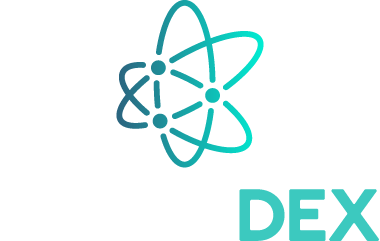
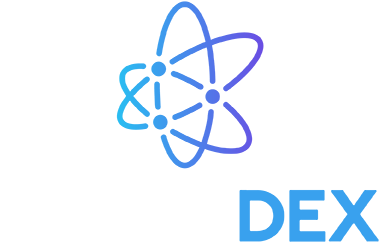
Change colors to blue

Changed region(s): [[0.2895, 0.0, 0.6947, 0.6971], [0.6079, 0.7552, 1.0, 1.0]]

diff --git a/lib/screens/settings/setting_page.dart b/lib/screens/settings/setting_page.dart
@@ -501,7 +501,7 @@ class _SettingPageState extends State<SettingPage> {
       child: ListTile(
         leading: Padding(
           padding: const EdgeInsets.all(6.0),
-          child: SvgPicture.asset('assets/delete_setting.svg'),
+          child: SvgPicture.asset('assets/svg/delete_setting.svg'),
         ),
         title: Text(AppLocalizations.of(context).deleteWallet,
             style: Theme.of(context).textTheme.body1.copyWith(
@@ -532,7 +532,7 @@ class _SettingPageState extends State<SettingPage> {
                           backgroundColor: Colors.white,
                           title: Column(
                             children: <Widget>[
-                              SvgPicture.asset('assets/delete_wallet.svg'),
+                              SvgPicture.asset('assets/svg/delete_wallet.svg'),
                               const SizedBox(
                                 height: 16,
                               ),
@@ -702,7 +702,7 @@ class _SettingPageState extends State<SettingPage> {
       }
       log.sink.write('\n\n--- / my recent swaps ---\n\n');
       // TBD: Replace these with a pretty-printed metrics JSON
-      log.sink.write('AtomicDEX mobile ${packageInfo.version} $os\n');
+      log.sink.write('atomicDEX mobile ${packageInfo.version} $os\n');
       log.sink.write('mm_version ${mmSe.mmVersion} mm_date ${mmSe.mmDate}\n');
       log.sink.write('netid ${mmSe.netid} pubkey ${mmSe.pubkey}\n');
       await log.sink.flush();
@@ -737,7 +737,7 @@ class _SettingPageState extends State<SettingPage> {
     mainBloc.isUrlLaucherIsOpen = true;
     await Share.shareFile(af,
         mimeType: 'application/octet-stream',
-        subject: 'AtomicDEX logs at ${DateTime.now().toIso8601String()}');
+        subject: 'atomicDEX logs at ${DateTime.now().toIso8601String()}');
   }
 
   Future<void> _shareFileDialog() async {

diff --git a/lib/screens/dex/trade/trade_page.dart b/lib/screens/dex/trade/trade_page.dart
@@ -881,7 +881,7 @@ class _TradePageState extends State<TradePage> with TickerProviderStateMixin {
                         color: Theme.of(context).backgroundColor,
                       ),
                       child: SvgPicture.asset(
-                        'assets/icon_swap.svg',
+                        'assets/svg/icon_swap.svg',
                         height: 40,
                       )),
                 )
@@ -1275,16 +1275,16 @@ class _TradePageState extends State<TradePage> with TickerProviderStateMixin {
                   crossAxisAlignment: CrossAxisAlignment.end,
                   children: <Widget>[
                     StreamBuilder<bool>(
-                      initialData: settingsBloc.showBalance,
-                      stream: settingsBloc.outShowBalance,
-                      builder: (BuildContext context, AsyncSnapshot<bool> snapshot) {
-                        String amount = coin.balance.getBalance();
-                        if(snapshot.hasData && snapshot.data == false) {
-                          amount = '**.**';
-                        }
-                        return Text(amount);
-                      }
-                    ),
+                        initialData: settingsBloc.showBalance,
+                        stream: settingsBloc.outShowBalance,
+                        builder: (BuildContext context,
+                            AsyncSnapshot<bool> snapshot) {
+                          String amount = coin.balance.getBalance();
+                          if (snapshot.hasData && snapshot.data == false) {
+                            amount = '**.**';
+                          }
+                          return Text(amount);
+                        }),
                     const SizedBox(
                       width: 4,
                     ),

diff --git a/lib/drawer/drawer.dart b/lib/drawer/drawer.dart
@@ -46,8 +46,8 @@ class _AppDrawerState extends State<AppDrawer> {
                     begin: Alignment.centerRight,
                     stops: <double>[0.01, 1],
                     colors: <Color>[
-                      Color.fromRGBO(39, 71, 110, 0.6),
-                      Color.fromRGBO(65, 234, 213, 0.1),
+                      Color.fromRGBO(98, 90, 229, 0.4),
+                      Color.fromRGBO(45, 184, 240, 0.6),
                     ],
                   )),
                   child: SafeArea(
@@ -61,7 +61,7 @@ class _AppDrawerState extends State<AppDrawer> {
                           child: Padding(
                             padding: const EdgeInsets.only(bottom: 8),
                             child: Image.asset(
-                                'assets/mark_and_text_vertical_light.png'),
+                                'assets/mark_and_text_vertical_white.png'),
                           ),
                         ),
                         Flexible(
@@ -83,7 +83,7 @@ class _AppDrawerState extends State<AppDrawer> {
                               mainAxisAlignment: MainAxisAlignment.center,
                               children: <Widget>[
                                 SvgPicture.asset(
-                                  'assets/wallet.svg',
+                                  'assets/svg/wallet.svg',
                                   height: 18,
                                 ),
                                 const SizedBox(width: 4),

diff --git a/lib/screens/authentification/authenticate_page.dart b/lib/screens/authentification/authenticate_page.dart
@@ -293,7 +293,7 @@ class _CreateWalletButtonState extends State<CreateWalletButton> {
     return BoxButton(
       key: const Key('createWalletButton'),
       text: AppLocalizations.of(context).createAWallet,
-      assetPath: 'assets/create_wallet.svg',
+      assetPath: 'assets/svg/create_wallet.svg',
       onPressed: () {
         Navigator.push<dynamic>(
           context,
@@ -316,7 +316,7 @@ class _RestoreButtonState extends State<RestoreButton> {
     return BoxButton(
       key: const Key('restoreWallet'),
       text: AppLocalizations.of(context).restoreWallet,
-      assetPath: 'assets/lock_off.svg',
+      assetPath: 'assets/svg/lock_off.svg',
       onPressed: () {
         Navigator.push<dynamic>(
           context,

diff --git a/lib/screens/portfolio/coins_page.dart b/lib/screens/portfolio/coins_page.dart
@@ -164,9 +164,9 @@ class _CoinsPageState extends State<CoinsPage> {
                               begin: Alignment.bottomLeft,
                               end: Alignment.topRight,
                               stops: const <double>[0.01, 1],
-                              colors: <Color>[
-                                const Color.fromRGBO(39, 71, 110, 1),
-                                Theme.of(context).accentColor,
+                              colors: const <Color>[
+                                Color.fromRGBO(98, 90, 229, 1),
+                                Color.fromRGBO(45, 184, 240, 1),
                               ],
                             )),
                           ));

diff --git a/lib/widgets/theme_data.dart b/lib/widgets/theme_data.dart
@@ -16,7 +16,7 @@ ThemeData getTheme() => ThemeData(
       primaryColor: primaryColor,
       backgroundColor: const Color.fromRGBO(30, 42, 58, 1),
       primaryColorDark: const Color.fromRGBO(28, 36, 48, 1),
-      accentColor: const Color.fromRGBO(65, 234, 213, 1),
+      accentColor: const Color.fromRGBO(57, 161, 238, 1),
       textSelectionColor:
           const Color.fromRGBO(57, 161, 238, 1).withOpacity(0.3),
       toggleableActiveColor: const Color.fromRGBO(57, 161, 238, 1),

diff --git a/lib/screens/dex/trade/swap_confirmation_page.dart b/lib/screens/dex/trade/swap_confirmation_page.dart
@@ -213,7 +213,7 @@ class _SwapConfirmationState extends State<SwapConfirmation> {
                         padding: const EdgeInsets.symmetric(
                             vertical: 4, horizontal: 4),
                         color: Theme.of(context).backgroundColor,
-                        child: SvgPicture.asset('assets/icon_swap.svg')),
+                        child: SvgPicture.asset('assets/svg/icon_swap.svg')),
                   ))
             ],
           ),

diff --git a/lib/screens/authentification/unlock_wallet_page.dart b/lib/screens/authentification/unlock_wallet_page.dart
@@ -70,7 +70,7 @@ class _UnlockWalletPageState extends State<UnlockWalletPage> {
                   color: Theme.of(context).primaryColor,
                   child: Padding(
                     padding: const EdgeInsets.all(24.0),
-                    child: SvgPicture.asset('assets/lock.svg',
+                    child: SvgPicture.asset('assets/svg/lock.svg',
                         semanticsLabel: 'Lock'),
                   ),
                 ),

diff --git a/lib/screens/settings/view_seed_unlock_page.dart b/lib/screens/settings/view_seed_unlock_page.dart
@@ -48,7 +48,7 @@ class _ViewSeedUnlockPageState extends State<ViewSeedUnlockPage> {
                 )
               : UnlockPassword(
                   currentWallet: walletBloc.currentWallet,
-                  icon: SvgPicture.asset('assets/seed_logo.svg'),
+                  icon: SvgPicture.asset('assets/svg/seed_logo.svg'),
                   onSuccess: (String data) {
                     setState(() {
                       seed = data;

diff --git a/lib/screens/dex/history/swap_detail_page/final_trade_success.dart b/lib/screens/dex/history/swap_detail_page/final_trade_success.dart
@@ -43,7 +43,7 @@ class _FinalTradeSuccessState extends State<FinalTradeSuccess>
             ),
             Container(
               height: 200,
-              child: SvgPicture.asset('assets/trade_success.svg',
+              child: SvgPicture.asset('assets/svg/trade_success.svg',
                   semanticsLabel: 'Trade Success'),
             ),
             const SizedBox(

diff --git a/lib/services/get_erc_transactions.dart b/lib/services/get_erc_transactions.dart
@@ -5,7 +5,6 @@ import 'package:komodo_dex/model/error_code.dart';
 import 'package:http/http.dart';
 import 'package:http/http.dart' as http;
 import 'package:komodo_dex/model/transactions.dart';
-import 'package:komodo_dex/model/transaction_data.dart';
 import 'package:komodo_dex/utils/log.dart';
 
 // At the moment (8/24/2020) tx history is disabled on parity nodes,

diff --git a/lib/screens/authentification/welcome_page.dart b/lib/screens/authentification/welcome_page.dart
@@ -34,7 +34,7 @@ class _WelcomePageState extends State<WelcomePage> {
           const SizedBox(
             height: 16,
           ),
-          SvgPicture.asset('assets/welcome_wallet.svg'),
+          SvgPicture.asset('assets/svg/welcome_wallet.svg'),
           Center(
             child: Text(
               AppLocalizations.of(context).welcomeTitle,
